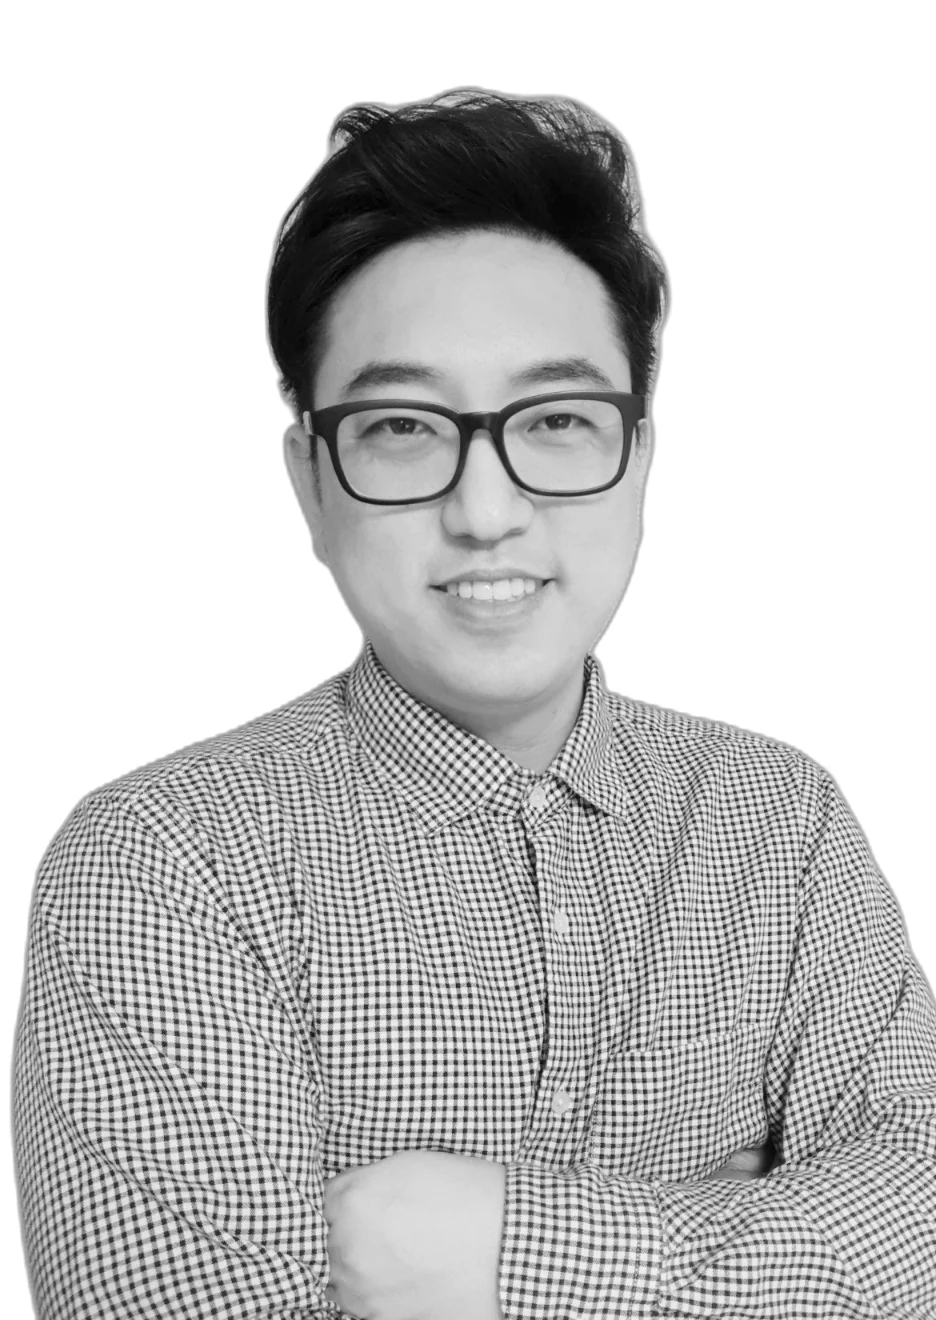
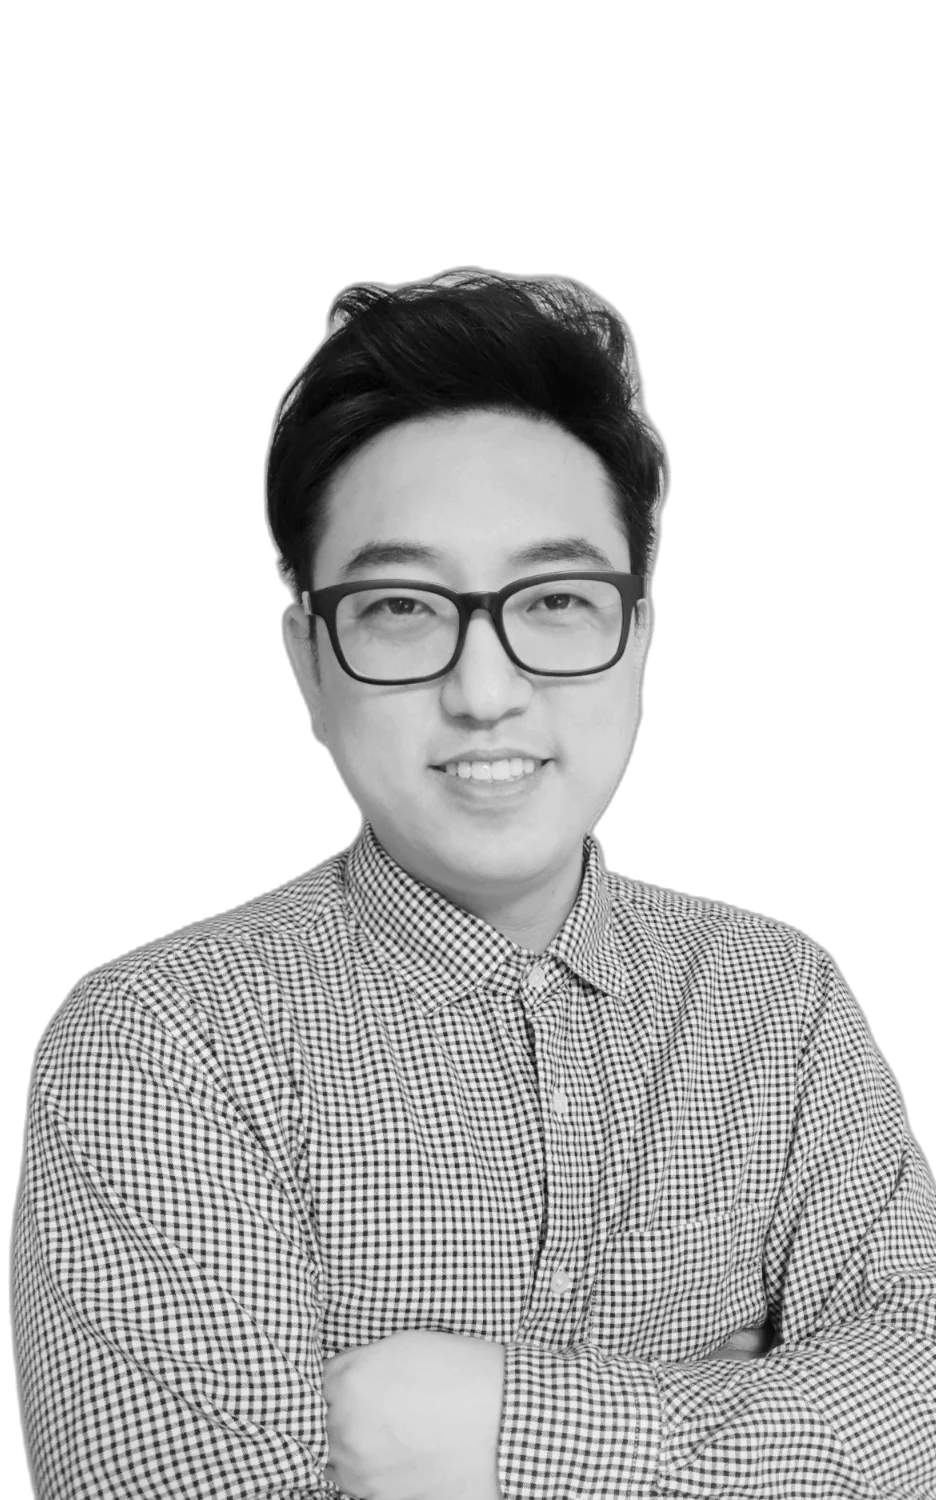
Add files via upload

diff --git a/index.html b/index.html
@@ -75,8 +75,8 @@ h1,h2,h3{margin:0;font-weight:400;text-wrap:balance}
 .btn.solid{background:var(--paper);color:var(--ink);border-color:var(--paper)}
 .btn.solid-ink{background:var(--ink);color:var(--paper);border-color:var(--ink)}
 .btn .n{font-family:var(--f-mono);font-weight:500}
-.portrait{position:relative;align-self:stretch;display:flex;flex-direction:column;justify-content:flex-end}
-.portrait img{width:100%;height:auto;aspect-ratio:936/1320;object-fit:cover;object-position:center top;background:#fff}
+.portrait{position:relative;align-self:end;justify-self:end;width:100%;max-width:440px;display:flex;flex-direction:column;justify-content:flex-end}
+.portrait img{width:100%;height:auto;aspect-ratio:936/1500;object-fit:cover;object-position:center top;background:#fff}
 .portrait figcaption{display:flex;justify-content:space-between;padding-block:12px 18px;font-family:var(--f-mono);font-size:11px;letter-spacing:.12em;color:var(--mute-dark)}
 .chapter-tag{display:flex;justify-content:space-between;align-items:baseline;border-top:1px solid var(--rule-dark);padding-block:18px 20px;font-family:var(--f-display);font-size:18px;letter-spacing:.06em}
 .chapter-tag .label{color:var(--mute-dark)}
@@ -155,17 +155,24 @@ figcaption.cap{margin-top:10px;font-size:13px;line-height:1.55;color:var(--mute)
 .shots figure:nth-child(2){margin-top:56px}
 
 /* CHAPTER V — 학력 */
-.docs{display:grid;grid-template-columns:repeat(12,minmax(0,1fr));gap:48px 32px;margin-top:64px;align-items:end}
-.doc{grid-column:span 6;min-width:0}
-.doc.d1{grid-column:1 / span 7}
-.doc.d2{grid-column:9 / span 4}
-.doc.d3{grid-column:1 / span 5}
-.doc.d4{grid-column:7 / span 6}
-.doc-no{display:flex;justify-content:space-between;align-items:baseline;border-top:1px solid var(--ink);padding-top:10px;margin-bottom:14px}
-.doc-no .n{font-family:var(--f-display);font-size:26px;line-height:1}
+.docs{list-style:none;margin:64px 0 0;padding:0}
+.doc-row{display:grid;grid-template-columns:minmax(0,1fr) minmax(0,1.1fr);gap:48px;padding-block:44px;border-top:1px solid var(--ink);align-items:start}
+.doc-row:last-child{border-bottom:1px solid var(--ink)}
+.doc-text{display:grid;grid-template-columns:72px minmax(0,1fr);gap:0 20px;align-content:start}
+.doc-text .n{font-family:var(--f-display);font-size:44px;line-height:1;grid-row:1 / span 4}
+.doc-text .en{font-family:var(--f-mono);font-size:11px;letter-spacing:.14em;text-transform:uppercase;color:var(--mute)}
+.doc-text h3{font-family:var(--f-kr-display);font-weight:700;font-size:clamp(22px,2.4vw,28px);line-height:1.35;margin-top:6px}
+.doc-text .desc{margin-top:14px;color:var(--ink-2);font-size:15.5px;line-height:1.75;max-width:30em}
+.facts{margin:20px 0 0;display:grid;grid-template-columns:max-content minmax(0,1fr);font-size:14px}
+.facts dt,.facts dd{margin:0;padding-block:9px;border-top:1px solid var(--rule)}
+.facts dt{color:var(--mute);padding-right:20px}
+.facts dd{font-variant-numeric:tabular-nums}
+.facts dd.big{font-family:var(--f-display);font-size:26px;line-height:1.1}
+.doc-img{min-width:0}
 .sheet{background:#fff;border:1px solid var(--rule);padding:clamp(10px,1.6vw,18px)}
+.sheet.portrait-doc{max-width:430px}
 .sheet .zoom img{border:1px solid #e6e5e1}
-.doc .num-big{font-family:var(--f-display);font-size:clamp(34px,4vw,52px);line-height:1;margin-top:14px;font-variant-numeric:tabular-nums}
+.doc-img .hint{margin-top:8px;font-size:12px;color:var(--mute)}
 .meta{margin-top:12px}
 .meta b{display:block;font-family:var(--f-display);font-weight:400;font-size:22px;line-height:1.2}
 .meta span{font-size:14px;color:var(--mute)}
@@ -229,13 +236,13 @@ dialog button{font:inherit;background:none;border:1px solid var(--ink);color:var
 @media (max-width:900px){
   .hero{padding-top:92px}
   .hero-grid,.clients-split,.results,.edu,.story,.next-grid,.price-extra{grid-template-columns:1fr}
-  .portrait{max-width:420px}
+  .portrait{max-width:360px;justify-self:start}
   .card{grid-template-columns:1fr;gap:10px;padding:28px 20px 36px;min-height:0}
   .card:nth-child(n){top:64px}
   .rules{grid-template-columns:1fr}
-  .docs{gap:44px}
-  .doc.d1,.doc.d2,.doc.d3,.doc.d4{grid-column:1 / -1}
-  .doc.d2,.doc.d3,.doc.d4{max-width:520px}
+  .doc-row{grid-template-columns:1fr;gap:24px;padding-block:32px}
+  .doc-text{grid-template-columns:52px minmax(0,1fr)}
+  .doc-text .n{font-size:34px}
   .verify{grid-template-columns:1fr;gap:10px}
   .chapter{padding-block:72px}
   .dock{display:flex}
@@ -284,7 +291,7 @@ dialog button{font:inherit;background:none;border:1px solid var(--ink);color:var
         </div>
       </div>
       <figure class="portrait">
-        <img src="img/portrait.webp" alt="임희대 코치 인물 사진" width="936" height="1320">
+        <img src="img/portrait.webp" alt="임희대 코치 인물 사진" width="936" height="1500">
         <figcaption><span>LIM HEE DAE</span><span>PENN STATE · TESOL</span></figcaption>
       </figure>
     </div>
@@ -435,32 +442,63 @@ dialog button{font:inherit;background:none;border:1px solid var(--ink);color:var
         <p class="lead">저는 초등학교 때 반에서 꼴찌였습니다.</p>
         <div>
           <p>그래서 영어가 입 밖으로 나오지 않는 답답함을 압니다. 미국 펜실베이니아 주립대에서 노사관계학을 전공했고, TESOL 과정을 마친 뒤 미국에 정착한 난민 학생들에게 영어를 가르치며 강의를 시작했습니다.</p>
-          <p>그 뒤 18년 동안 대기업 임원부터 외국계 이직 준비생까지 직장인 3,000명 이상을 1:1로 만났습니다. 학력과 자격은 아래 원본으로 확인하실 수 있습니다.</p>
+          <p>그 뒤 18년 동안 대기업 임원부터 외국계 이직 준비생까지 직장인 3,000명 이상을 1:1로 만났습니다. 학력과 자격은 아래 문서로 확인하실 수 있습니다.</p>
         </div>
       </div>
-      <div class="docs">
-        <figure class="doc d1 rise">
-          <div class="doc-no"><span class="n">01</span><span class="label muted">Degree</span></div>
-          <div class="sheet"><button class="zoom" type="button" data-full="img/diploma.webp" data-cap="The Pennsylvania State University 학위증"><img src="img/diploma.webp" alt="펜실베이니아 주립대 학사 학위증, Hee Dae Lim, 2008년 8월" loading="lazy" width="960" height="786"></button></div>
-          <div class="meta"><b>The Pennsylvania State University</b><span>Bachelor of Arts · Labor and Industrial Relations · 2008년 8월</span></div>
-        </figure>
-        <figure class="doc d2 rise">
-          <div class="doc-no"><span class="n">02</span><span class="label muted">Certificate</span></div>
-          <div class="sheet"><button class="zoom" type="button" data-full="img/tesol-cert.webp" data-cap="TESOL 수료증"><img src="img/tesol-cert.webp" alt="University of the Nations TESOL 수료증, Heedae Lim, 2009년 11월 13일" loading="lazy" width="900" height="1233"></button></div>
-          <div class="meta"><b>TESOL Certificate</b><span>University of the Nations · 미국 펜실베이니아주 · 2009년</span></div>
-        </figure>
-        <figure class="doc d3 rise">
-          <div class="doc-no"><span class="n">03</span><span class="label muted">Course Record</span></div>
-          <div class="sheet"><button class="zoom" type="button" data-full="img/tesol-letter.webp" data-cap="TESOL 과정 이수 확인서"><img src="img/tesol-letter.webp" alt="TESOL 과정 이수 확인서" loading="lazy" width="1100" height="1522"></button></div>
-          <div class="meta"><b>TESOL 과정 이수 확인서</b><span>4주 전일제 과정으로 강의 100시간, 과제 40시간, 실습 26시간을 마쳤습니다.</span></div>
-        </figure>
-        <figure class="doc d4 rise">
-          <div class="doc-no"><span class="n">04</span><span class="label muted">Apostille</span></div>
-          <div class="sheet"><button class="zoom" type="button" data-full="img/apostille.webp" data-cap="아포스티유 확인서"><img src="img/apostille.webp" alt="미국 테네시주 국무부 아포스티유 확인서, 문서번호 18-15719" loading="lazy" width="1050" height="1550"></button></div>
-          <div class="meta"><b>아포스티유 확인서</b><span>미국 테네시주 국무부가 발행했습니다. 문서번호로 테네시주 공식 사이트에서 누구나 진위를 조회할 수 있습니다.</span></div>
-          <p class="num-big">No. 18-15719</p>
-        </figure>
-      </div>
+      <ol class="docs">
+        <li class="doc-row rise">
+          <div class="doc-text">
+            <span class="n">01</span>
+            <span class="en">Bachelor of Arts</span>
+            <h3>펜실베이니아 주립대학교 학사 학위증</h3>
+            <p class="desc">미국 펜실베이니아 주립대학교 본교에서 노사관계학을 전공하고 받은 학사 학위증입니다. 기업의 인사·노무와 조직 커뮤니케이션을 다루는 전공으로, 면접 답변을 HR의 시선으로 다듬는 수업의 바탕이 됩니다.</p>
+            <dl class="facts"><dt>학교</dt><dd>The Pennsylvania State University</dd><dt>전공</dt><dd>노사관계학 (Labor and Industrial Relations)</dd><dt>수여</dt><dd>2008년 8월</dd></dl>
+          </div>
+          <figure class="doc-img">
+            <div class="sheet"><button class="zoom" type="button" data-full="img/diploma.webp" data-cap="펜실베이니아 주립대학교 학사 학위증"><img src="img/diploma.webp" alt="펜실베이니아 주립대 학사 학위증, Hee Dae Lim" loading="lazy" width="960" height="786"></button></div>
+            <figcaption class="hint">이미지를 누르면 크게 볼 수 있습니다.</figcaption>
+          </figure>
+        </li>
+        <li class="doc-row rise">
+          <div class="doc-text">
+            <span class="n">02</span>
+            <span class="en">TESOL Certificate</span>
+            <h3>TESOL 수료증</h3>
+            <p class="desc">TESOL은 영어를 모국어로 쓰지 않는 사람에게 영어를 가르치는 방법을 배우는 국제 교수법 과정입니다. 영어 강사로서 체계적인 교수법 훈련을 마쳤다는 증명입니다.</p>
+            <dl class="facts"><dt>기관</dt><dd>University of the Nations</dd><dt>장소</dt><dd>미국 펜실베이니아주 레바논</dd><dt>수료</dt><dd>2009년 11월 13일</dd></dl>
+          </div>
+          <figure class="doc-img">
+            <div class="sheet portrait-doc"><button class="zoom" type="button" data-full="img/tesol-cert.webp" data-cap="TESOL 수료증"><img src="img/tesol-cert.webp" alt="University of the Nations TESOL 수료증, Heedae Lim" loading="lazy" width="900" height="1233"></button></div>
+            <figcaption class="hint">이미지를 누르면 크게 볼 수 있습니다.</figcaption>
+          </figure>
+        </li>
+        <li class="doc-row rise">
+          <div class="doc-text">
+            <span class="n">03</span>
+            <span class="en">Course Record</span>
+            <h3>TESOL 과정 이수 확인서</h3>
+            <p class="desc">수료증과 함께 발급된 과정 내용 확인서입니다. 언어학, 제2언어 습득, 말하기·쓰기·발음 교수법, 수업 설계를 배우고 실제 학생을 가르치는 실습 평가까지 마쳤다는 내용이 담겨 있습니다.</p>
+            <dl class="facts"><dt>과정</dt><dd>4주 전일제 집중 과정</dd><dt>구성</dt><dd>강의 100시간 · 과제 40시간 · 실습 26시간</dd><dt>발급</dt><dd>2009년 11월 13일</dd></dl>
+          </div>
+          <figure class="doc-img">
+            <div class="sheet portrait-doc"><button class="zoom" type="button" data-full="img/tesol-letter.webp" data-cap="TESOL 과정 이수 확인서"><img src="img/tesol-letter.webp" alt="TESOL 과정 이수 확인서" loading="lazy" width="1100" height="1522"></button></div>
+            <figcaption class="hint">이미지를 누르면 크게 볼 수 있습니다.</figcaption>
+          </figure>
+        </li>
+        <li class="doc-row rise">
+          <div class="doc-text">
+            <span class="n">04</span>
+            <span class="en">Apostille</span>
+            <h3>아포스티유 확인서</h3>
+            <p class="desc">아포스티유는 헤이그 협약 가입국 사이에서 공문서의 서명과 직인이 진짜임을 정부 기관이 확인해 주는 국제 인증입니다. 한국도 가입국이라 별도의 영사 확인 없이 효력이 인정되며, 문서번호로 누구나 진위를 조회할 수 있습니다.</p>
+            <dl class="facts"><dt>발행</dt><dd>미국 테네시주 국무부</dd><dt>발행일</dt><dd>2018년 10월 26일</dd><dt>문서번호</dt><dd class="big">No. 18-15719</dd></dl>
+          </div>
+          <figure class="doc-img">
+            <div class="sheet portrait-doc"><button class="zoom" type="button" data-full="img/apostille.webp" data-cap="아포스티유 확인서"><img src="img/apostille.webp" alt="미국 테네시주 국무부 아포스티유 확인서, 문서번호 18-15719" loading="lazy" width="1050" height="1550"></button></div>
+            <figcaption class="hint">이미지를 누르면 크게 볼 수 있습니다.</figcaption>
+          </figure>
+        </li>
+      </ol>
     </div>
   </section>
 
